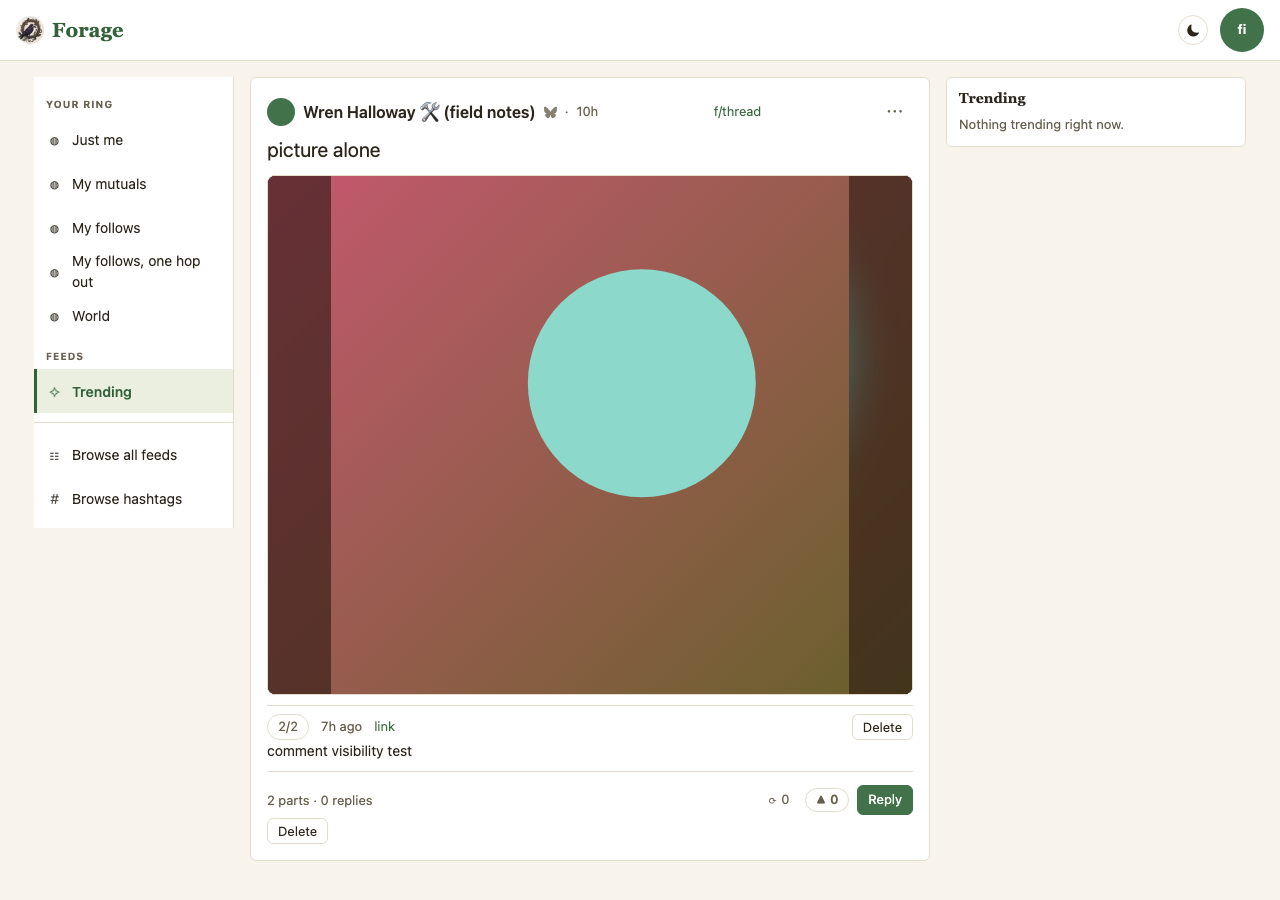
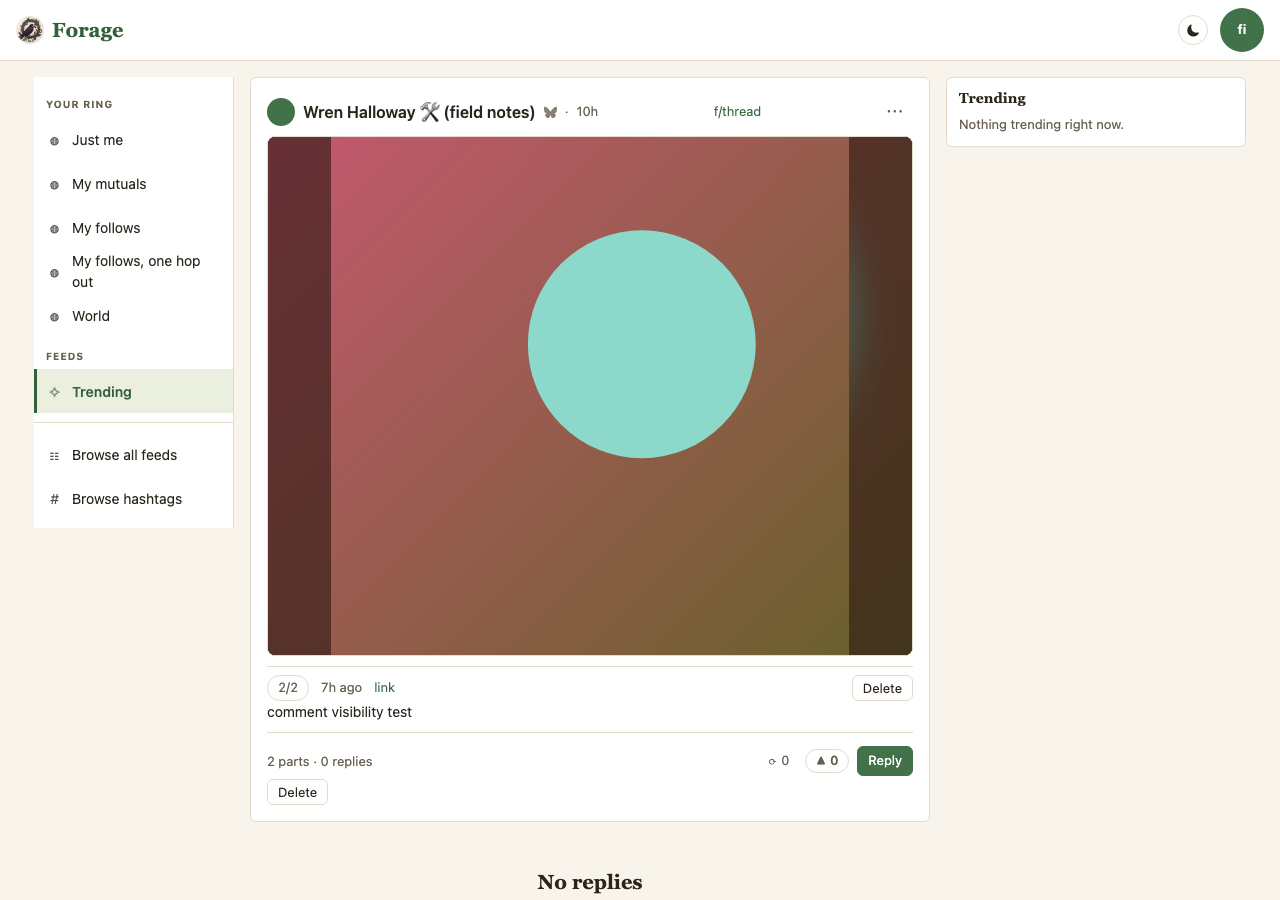
thread: the button that deletes the post says post
A post with continuation parts now shows more than one Delete on one card —
the post's and each part's. Two buttons reading "Delete" side by side is the
ambiguity that cost the owner a post on 2026-09-03, so deleteControl takes a
label and the head passes "Delete post".

e2e/self-thread.workflow.mjs holds what the mock's frames claim (MOCKS.md
P5): the 2/3 badges, the count that is the list, a Delete on every part,
oldest-first hoisting over the appview's ranking, the decoy and the
re-rooted reply staying comments, the pinned placement above the sort bar,
and the reported tree no longer printing "1 reply" over "No replies".

Claude-Session: https://claude.ai/code/session_01LSf9N1sNNp74cFFENhWd2g

diff --git a/js/ui/lens-views.js b/js/ui/lens-views.js
@@ -1586,16 +1586,19 @@ function partMeta(part, onDeleted) {
 // two deliberate clicks. NOT a confirm() dialog: a modal dialog freezes the
 // whole page, and this is a small enough act that arming the button in place
 // reads better than interrupting everything.
-function deleteControl(post, onDone) {
+// `label` because a post with continuation parts now shows more than one of
+// these on one card — the post's and each part's. Two buttons reading "Delete"
+// side by side is the ambiguity that cost the owner a post on 2026-09-03.
+function deleteControl(post, onDone, { label = 'Delete' } = {}) {
   if (!canDelete(post, session)) return null;
   let armed = false;
   const b = el('button', { class: 'btn sm', 'data-delete-post': '1',
-    title: 'Delete this post from your Bluesky account' }, 'Delete');
+    title: 'Delete this post from your Bluesky account' }, label);
   const disarm = () => {
     armed = false;
     b.removeAttribute('data-armed');
     b.classList.remove('danger');
-    b.replaceChildren('Delete');
+    b.replaceChildren(label);
   };
   b.addEventListener('click', async () => {
     if (!armed) {
@@ -3071,7 +3074,7 @@ export function lensThreadView(params, query) {
         main.replaceChildren(emptyState('This post was deleted',
           'It is gone from your Bluesky account. Anyone who already saw it may still have a copy — deleting removes the record, it does not un-send it.',
           el('a', { class: 'btn', href: `/f/${src.feedSlug}` }, 'Back to the board')));
-      })));
+      }, { label: 'Delete post' })));
     const ctx = { ...LENS_PERMS,
       // post-text: a reply's words, faceted — its links, #tags and @mentions are
       // as live as the head's. The node shape carries `facets` as of this change.
